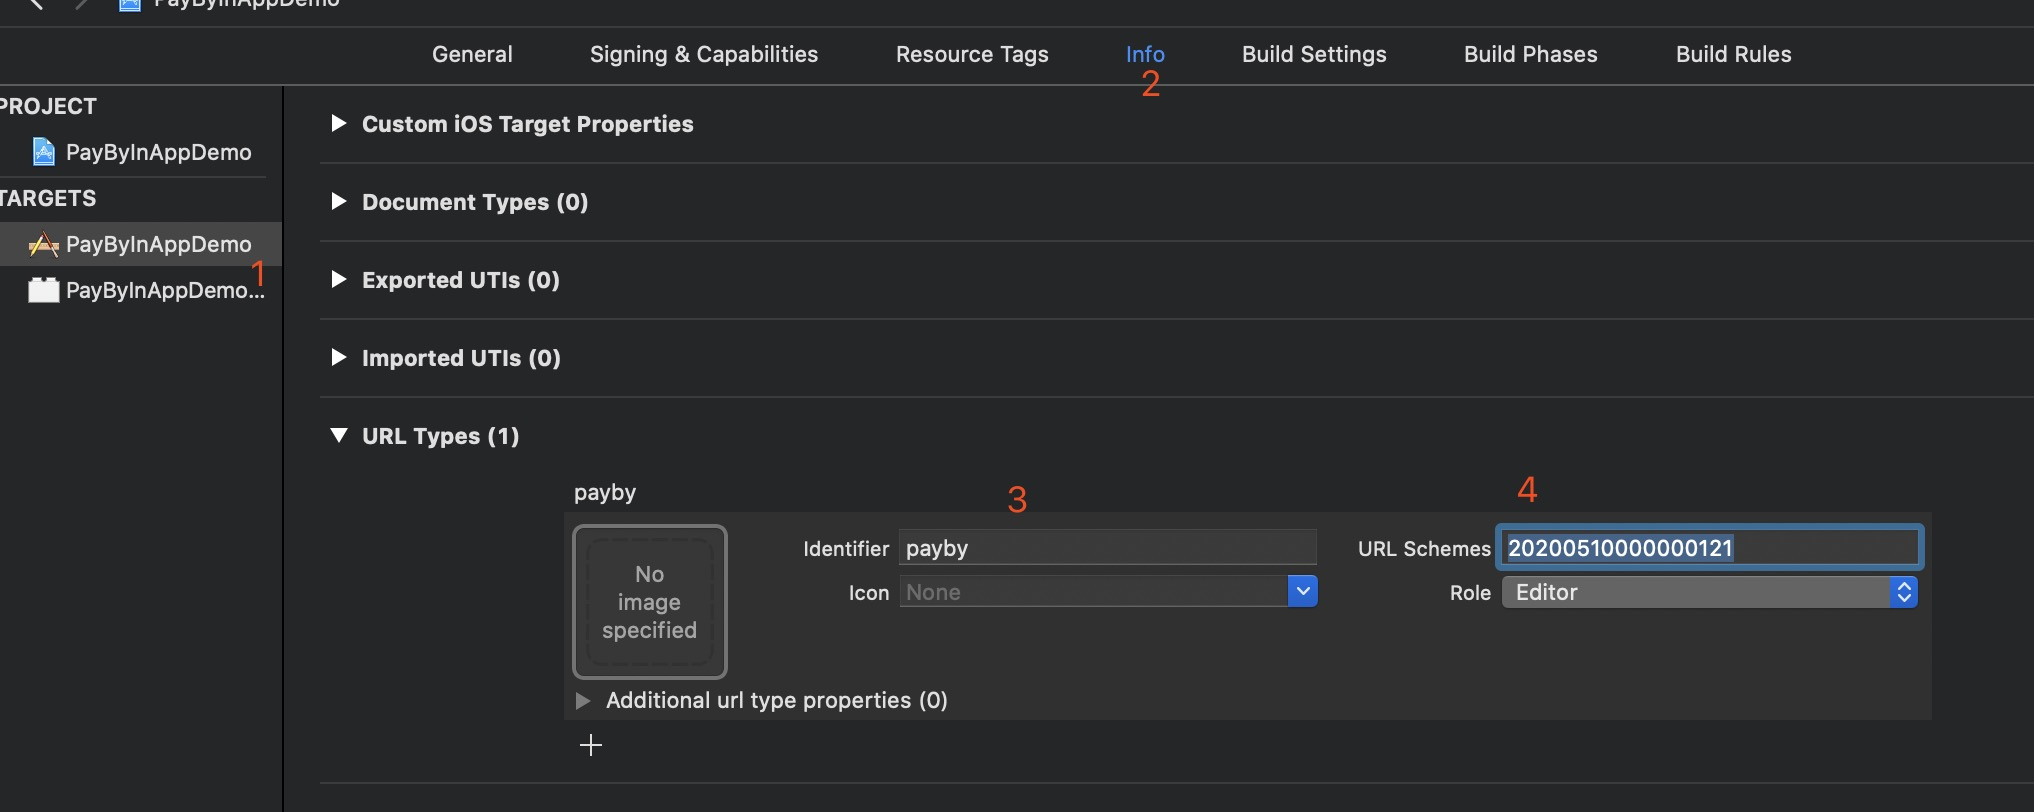
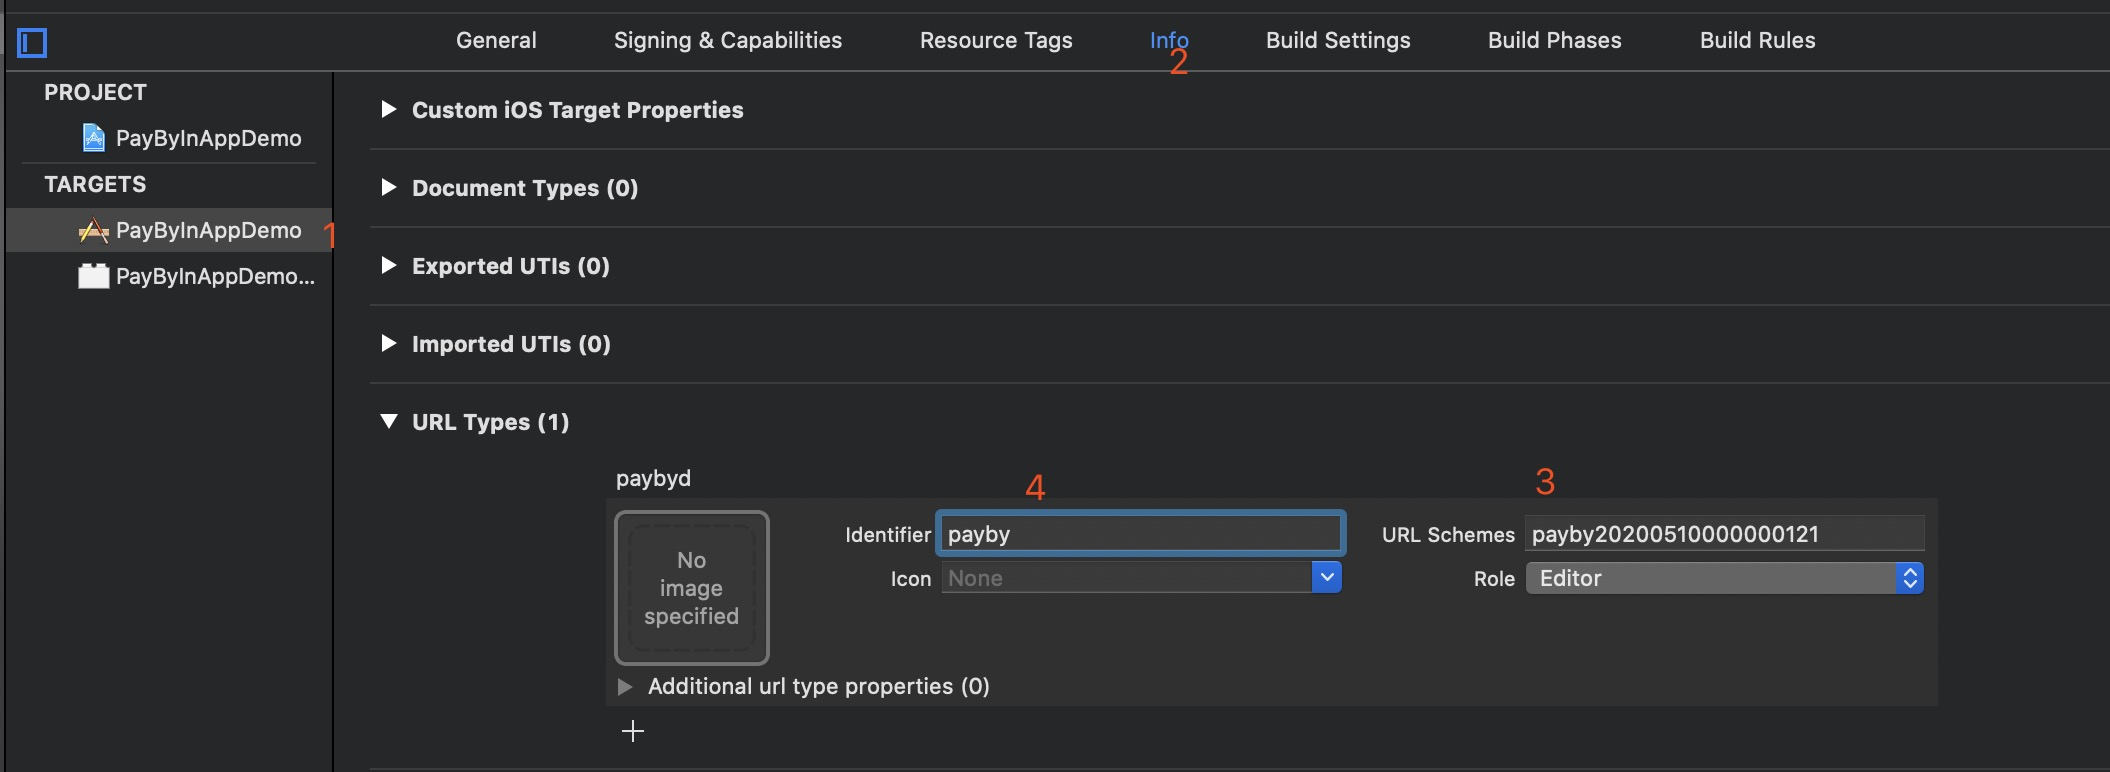
update 截图

diff --git a/README.md b/README.md
@@ -20,7 +20,7 @@ PayBy Payment Gateway integration SDK for ios with In-app pay scenes
 ```
 保存并执行 pod install,然后用后缀为.xcworkspace 的文件打开工程。
 
-[3] 在 Xcode 中，选择你的工程设置项，选中“TARGETS”一栏，在“info”标签栏的“URL type“添加“URL scheme”为你所注册的应用程序 id（如下图所示）。
+[3] 在 Xcode 中，选择你的工程设置项，选中“TARGETS”一栏，在“info”标签栏的“URL type“添加“URL scheme”为你所注册的应用程序 “payby”+id（如下图所示）。
 ![Image text](https://github.com/PayBy/PayBy-inApp-IOS/blob/master/1591697884928.jpg) 
 
 Xcode 设置 URL scheme
